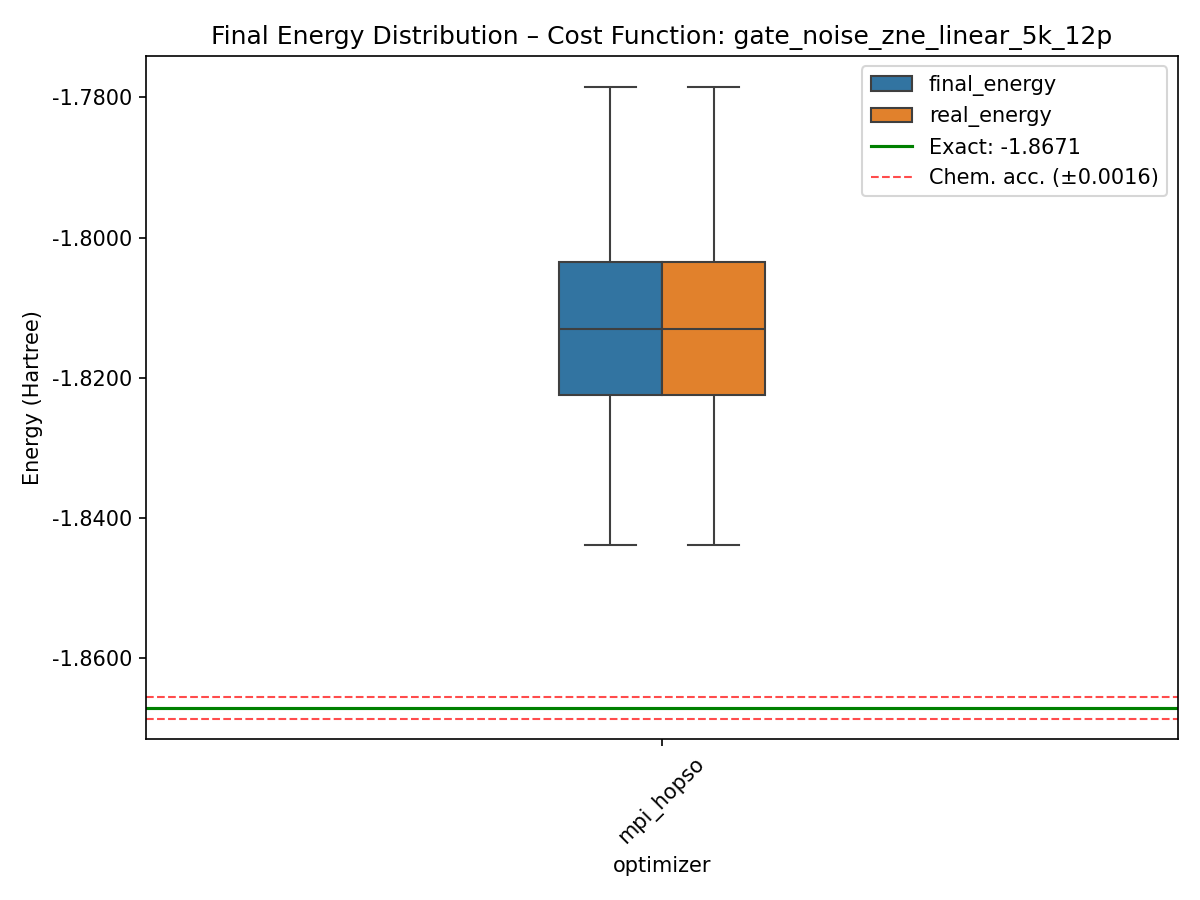
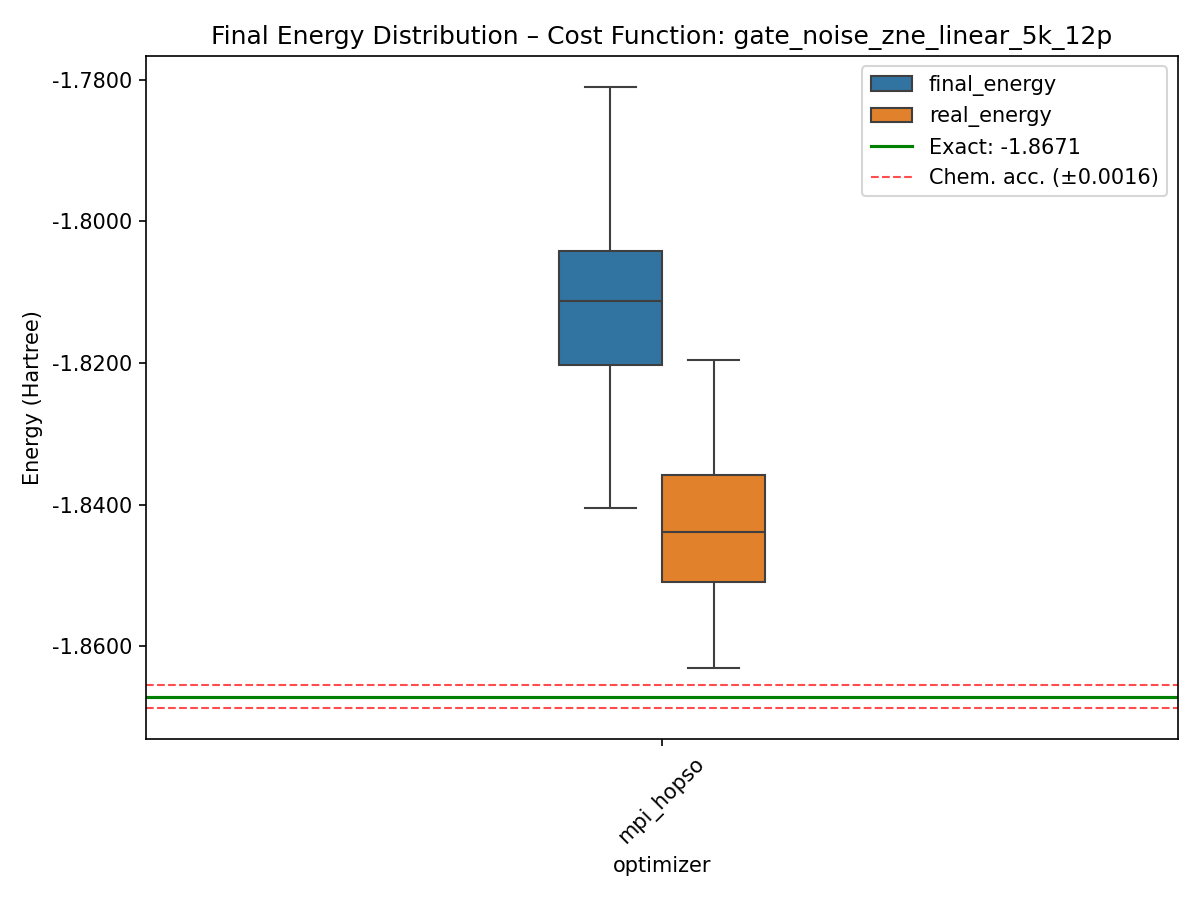
Please enter the commit message for your changes. Lines starting  with '' will be ignored, and an empty message aborts the commit.
On branch main
 Your branch is up to date with 'origin/main'.

 Changes to be committed:
	deleted:    graphs/boxplot_costfunc_gate_noise_zne_linear_5k.png
	modified:   graphs/boxplot_costfunc_gate_noise_zne_linear_5k_12p.png
	modified:   graphs/boxplot_costfunc_gate_noise_zne_richardson_5k.png
	modified:   graphs/boxplot_costfunc_gate_noise_zne_richardson_exact.png
	new file:   graphs/boxplot_optimizer_mpi_hopso.png
	modified:   results/mpi_hopso_gate_noise_zne_richardson_5k.csv
	modified:   results/mpi_hopso_gate_noise_zne_richardson_exact.csv
	modified:   src/__pycache__/run_mpi.cpython-312.pyc
	modified:   src/costF/__pycache__/costF_4q_H2_qiskit.cpython-312.pyc
	modified:   src/costF/costF_4q_H2_qiskit.py
	modified:   src/run_mpi.py
	modified:   src/utils/__pycache__/box_plots.cpython-312.pyc
	modified:   src/utils/__pycache__/result_handler_csv.cpython-312.pyc
	modified:   src/utils/box_plots.py
	modified:   summaries/summary_mpi_hopso.csv

diff --git a/src/utils/box_plots.py b/src/utils/box_plots.py
@@ -140,20 +140,25 @@ for cf in cost_functions:
 # -------------------------------
 # 2. Box plots: per optimizer (one figure per optimizer)
 # -------------------------------
-"""
 for opt in optimizers:
     subset = combined[combined['optimizer'] == opt]
     if subset.empty:
         continue
+    melted = subset.melt(
+        id_vars=['cost_function'],
+        value_vars=['final_energy', 'real_energy'],
+        var_name='energy_type',
+        value_name='energy'
+    )
 
-    plt.figure(figsize=(10, 6))
+    fig, ax1 = plt.subplots(figsize=(8, 6))
 
-    ax = sns.boxplot(data=subset, x='cost_function', y='final_energy', order=cost_functions, width=0.2, showfliers=False)
-    ax.yaxis.set_major_formatter(plt.FormatStrFormatter('%.4f'))
-    ax.axhline(y=E_EXACT, color='green', linestyle='-', linewidth=1.5, label=f'Exact: {E_EXACT:.4f}')
-    ax.axhline(y=E_EXACT + PRECISION, color='red', linestyle='--', linewidth=1, alpha=0.7, label=f'Chem. acc. (±{PRECISION:.4f})')
-    ax.axhline(y=E_EXACT - PRECISION, color='red', linestyle='--', linewidth=1, alpha=0.7, label=None)
-    ax.legend()
+    sns.boxplot(data=melted, x='cost_function', y='energy', hue='energy_type', order=cost_functions, width=0.2, showfliers=False, ax=ax1)
+    ax1.yaxis.set_major_formatter(plt.FormatStrFormatter('%.4f'))
+    ax1.axhline(y=E_EXACT, color='green', linestyle='-', linewidth=1.5, label=f'Exact: {E_EXACT:.4f}')
+    ax1.axhline(y=E_EXACT - PRECISION, color='red', linestyle='--', linewidth=1, alpha=0.7, label=None)
+    ax1.axhline(y=E_EXACT + PRECISION, color='red', linestyle='--', linewidth=1, alpha=0.7, label=f'Chem. acc. (±{PRECISION:.4f})')
+    ax1.legend()
 
     plt.title(f"Final Energy Distribution – Optimizer: {opt}")
     plt.ylabel("Energy (Hartree)")
@@ -163,5 +168,5 @@ for opt in optimizers:
     plt.savefig(out_path, dpi=150)
     plt.close()
     print(f"Saved: {out_path}")
-"""
+
 print("All box plots generated.")

diff --git a/src/costF/costF_4q_H2_qiskit.py b/src/costF/costF_4q_H2_qiskit.py
@@ -173,7 +173,7 @@ def extrapolate(scale_factors, energies, method):
     elif method == 'richardson':
         if len(scale_factors) == 3:
             E1, E2, E3 = energies
-            return ((9*E1) - (8*E3) + E2) / (2)
+            return ((3*E1) - (3*E2) + E3)
     elif method == 'exponential':
         try:
             p0 = [1.2, 0.5, E_exact + 1.0]  # Initial guess: a, b, c

diff --git a/src/run_mpi.py b/src/run_mpi.py
@@ -65,7 +65,7 @@ def main():
     budget = args.budget
     
     optimizer = mpi_hopso
-    runs = 100
+    runs = 10
     dimension = ansatz_h2.num_parameters
     maxcut = 2.05
     max_iterations = budget/num_particles
